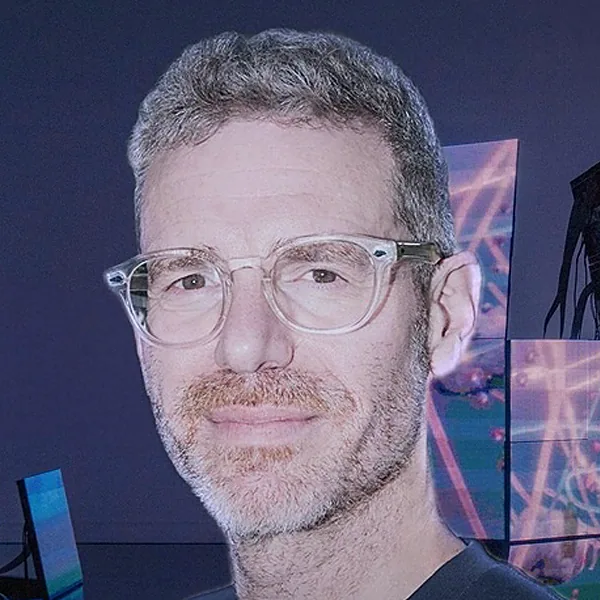
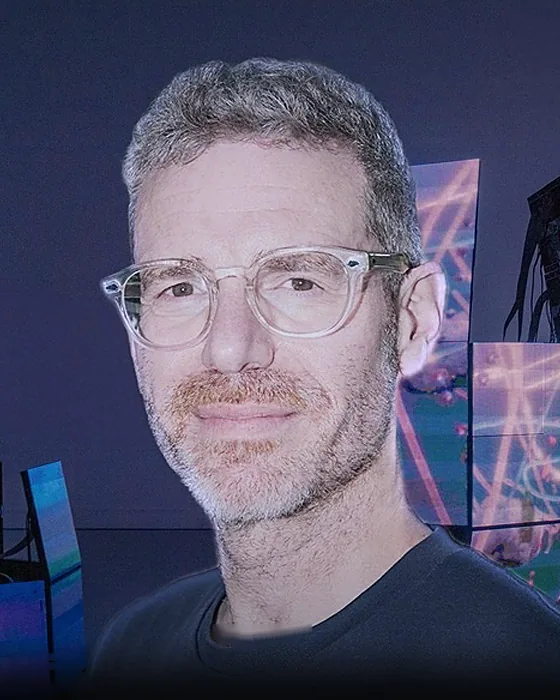
asmbly: taller 4:5 lineup cards, zoomed-out centred portraits
Back to a 4:5 image with every headshot recropped to one framing: crown
at 10% from the top, chin at 72%, head centred. Sophie, Andrew and
Wilfred get a little extra room because their tilted heads read larger.

The cover-based portraits (Sehun, Wilfred, Robleh, Amir, Geoffrey) need
more photo below the chin than the clean area holds, so the cover's
label and name type there is inpainted away and the last 10% fades
softly into the card.

Claude-Session: https://claude.ai/code/session_015vvedEEUJEY2Xconp5SVWz

diff --git a/public/asmbly/index.html b/public/asmbly/index.html
@@ -357,7 +357,7 @@
   /* Lineup TBA */
   .lineup { display: grid; grid-template-columns: repeat(4, 1fr); gap: 1px; background: var(--line); border: 1px solid var(--line); }
   .card { background: var(--bg); position: relative; overflow: hidden; }
-  .card__img { aspect-ratio: 1 / 1; position: relative; overflow: hidden; background: #0a0a0a; }
+  .card__img { aspect-ratio: 4 / 5; position: relative; overflow: hidden; background: #0a0a0a; }
   .card__img img { width: 100%; height: 100%; object-fit: cover; filter: grayscale(1) contrast(1.2) brightness(.55) blur(6px); transform: scale(1.12); transition: filter .7s ease, transform 1.2s ease; }
   .card:hover .card__img img { filter: grayscale(0) contrast(1.1) brightness(.85) blur(0); transform: scale(1.02); }
   .card__img::after { content: ""; position: absolute; inset: 0; background: repeating-linear-gradient(0deg, rgba(0,0,0,.4) 0 2px, transparent 2px 4px); mix-blend-mode: multiply; }
@@ -395,10 +395,10 @@
   .lineup-note { display: flex; justify-content: space-between; align-items: center; gap: 20px; flex-wrap: wrap; margin-top: 28px; }
   @media (max-width: 1000px) { .lineup { grid-template-columns: repeat(2, 1fr); } }
   @media (min-width: 1001px) and (max-width: 1240px) { .card__bio { padding: 16px 16px; gap: 8px; } .card__bio p { font-size: 13px; line-height: 1.38; } }
-  /* Narrow screens: the square portrait is too short for a bio, so the open bio covers the whole card (photo + name) */
+  /* Narrow screens: the portrait is too short for a bio, so the open bio covers the whole card (photo + name) */
   @media (max-width: 760px) {
     .card__img { position: static; }
-    .card__img::after, .card--revealed .card__img::before { inset: 0 0 auto 0; aspect-ratio: 1 / 1; }
+    .card__img::after, .card--revealed .card__img::before { inset: 0 0 auto 0; aspect-ratio: 4 / 5; }
     .card__bio { background: linear-gradient(to top, rgba(5,5,5,.97) 0%, rgba(5,5,5,.94) 50%, rgba(5,5,5,.4) 72%, rgba(5,5,5,0) 88%); }
     .card__body > * { transition: opacity .3s ease; }
     .card--revealed:is(.is-active, :has(:focus-visible)) .card__body > * { opacity: 0; }
@@ -881,18 +881,18 @@ document.addEventListener('click', (e) => {
       <span class="eyebrow">Decrypting soon</span>
     </div>
     <div class="lineup">
-      <article class="card card--revealed"><div class="card__img"><img decoding="async" src="/asmbly/img/sophie-hospes-s.webp?v=4" alt="Sophie Hospes" loading="lazy" /><div class="card__bio" aria-hidden="true"><span class="mono">About</span><p>Creative director based in Malmö. Through Studio Sophie Hospes and as Creative Director at New Limit Labs, she builds brand worlds across campaigns, product design and AI-powered creative systems.</p></div></div><div class="card__body"><div class="card__name">Sophie Hospes</div><div class="card__role mono">Speaker · The future of creative work</div><a class="card__ig mono" href="https://www.instagram.com/studiosophiehospes/" target="_blank" rel="noopener" aria-label="Sophie Hospes on Instagram">@studiosophiehospes ↗</a></div></article>
-      <article class="card card--revealed"><div class="card__img"><img decoding="async" src="/asmbly/img/sehun-choi-s.webp?v=4" alt="Sehun Choi" loading="lazy" /><div class="card__bio" aria-hidden="true"><span class="mono">About</span><p>Seoul-based artist working with generative AI across image, film and large-scale installation, with work for brands including OpenAI, Samsung and LG Electronics.</p></div></div><div class="card__body"><div class="card__name">Sehun Choi</div><div class="card__role mono">Speaker · Artist talk</div><a class="card__ig mono" href="https://www.instagram.com/se.hunchoi/" target="_blank" rel="noopener" aria-label="Sehun Choi: @se.hunchoi">@se.hunchoi ↗</a></div></article>
-      <article class="card card--revealed"><div class="card__img"><img decoding="async" src="/asmbly/img/wilfred-lee-s.webp?v=4" alt="Wilfred Lee" loading="lazy" /><div class="card__bio" aria-hidden="true"><span class="mono">About</span><p>Toronto AI filmmaker, worldbuilder and educator. Founder of Artist's Journey and GenTO, he brings storytelling, generative tools and community together into finished work.</p></div></div><div class="card__body"><div class="card__name">Wilfred Lee</div><div class="card__role mono">Panelist · The future of entertainment</div><a class="card__ig mono" href="https://www.instagram.com/theartistsjourney/" target="_blank" rel="noopener" aria-label="Wilfred Lee on Instagram">@theartistsjourney ↗</a></div></article>
-      <article class="card card--revealed"><div class="card__img"><img decoding="async" src="/asmbly/img/andrew-macdonald-s.webp?v=4" alt="Andrew MacDonald" loading="lazy" /><div class="card__bio" aria-hidden="true"><span class="mono">About</span><p>Filmmaker and creative-innovation leader at Cream Productions. As executive creative producer at Dark Half, he leads AI-enabled production and VFX workflows for film and television.</p></div></div><div class="card__body"><div class="card__name">Andrew MacDonald</div><div class="card__role mono">Panelist · Dark Half</div><a class="card__ig mono" href="https://darkhalf.ai/" target="_blank" rel="noopener" aria-label="Andrew MacDonald: darkhalf.ai">darkhalf.ai ↗</a></div></article>
-      <article class="card card--revealed"><div class="card__img"><img decoding="async" src="/asmbly/img/robleh-jama-s.webp?v=4" alt="Robleh Jama" loading="lazy" /><div class="card__bio" aria-hidden="true"><span class="mono">About</span><p>Toronto product builder and founder of Tomorrow. A Shopify alum, he co-founded Boom, the camera app for video calls, and founded the app studio Tiny Hearts.</p></div></div><div class="card__body"><div class="card__name">Robleh Jama</div><div class="card__role mono">Panelist · The Builder's Playbook</div><a class="card__ig mono" href="https://x.com/robjama" target="_blank" rel="noopener" aria-label="Robleh Jama: @robjama">@robjama ↗</a></div></article>
-      <article class="card card--revealed"><div class="card__img"><img decoding="async" src="/asmbly/img/amir-mxt-s.webp?v=4" alt="Amir MXT" loading="lazy" /><div class="card__bio" aria-hidden="true"><span class="mono">About</span><p>Founder of Humblytics, the simple analytics and A/B testing platform for websites. A product builder focused on shipping fast with small teams and new tools.</p></div></div><div class="card__body"><div class="card__name">Amir MXT</div><div class="card__role mono">Panelist · The Builder's Playbook</div><a class="card__ig mono" href="https://x.com/amirmxt" target="_blank" rel="noopener" aria-label="Amir MXT: @amirmxt">@amirmxt ↗</a></div></article>
+      <article class="card card--revealed"><div class="card__img"><img decoding="async" src="/asmbly/img/sophie-hospes-s.webp?v=5" alt="Sophie Hospes" loading="lazy" /><div class="card__bio" aria-hidden="true"><span class="mono">About</span><p>Creative director based in Malmö. Through Studio Sophie Hospes and as Creative Director at New Limit Labs, she builds brand worlds across campaigns, product design and AI-powered creative systems.</p></div></div><div class="card__body"><div class="card__name">Sophie Hospes</div><div class="card__role mono">Speaker · The future of creative work</div><a class="card__ig mono" href="https://www.instagram.com/studiosophiehospes/" target="_blank" rel="noopener" aria-label="Sophie Hospes on Instagram">@studiosophiehospes ↗</a></div></article>
+      <article class="card card--revealed"><div class="card__img"><img decoding="async" src="/asmbly/img/sehun-choi-s.webp?v=5" alt="Sehun Choi" loading="lazy" /><div class="card__bio" aria-hidden="true"><span class="mono">About</span><p>Seoul-based artist working with generative AI across image, film and large-scale installation, with work for brands including OpenAI, Samsung and LG Electronics.</p></div></div><div class="card__body"><div class="card__name">Sehun Choi</div><div class="card__role mono">Speaker · Artist talk</div><a class="card__ig mono" href="https://www.instagram.com/se.hunchoi/" target="_blank" rel="noopener" aria-label="Sehun Choi: @se.hunchoi">@se.hunchoi ↗</a></div></article>
+      <article class="card card--revealed"><div class="card__img"><img decoding="async" src="/asmbly/img/wilfred-lee-s.webp?v=5" alt="Wilfred Lee" loading="lazy" /><div class="card__bio" aria-hidden="true"><span class="mono">About</span><p>Toronto AI filmmaker, worldbuilder and educator. Founder of Artist's Journey and GenTO, he brings storytelling, generative tools and community together into finished work.</p></div></div><div class="card__body"><div class="card__name">Wilfred Lee</div><div class="card__role mono">Panelist · The future of entertainment</div><a class="card__ig mono" href="https://www.instagram.com/theartistsjourney/" target="_blank" rel="noopener" aria-label="Wilfred Lee on Instagram">@theartistsjourney ↗</a></div></article>
+      <article class="card card--revealed"><div class="card__img"><img decoding="async" src="/asmbly/img/andrew-macdonald-s.webp?v=5" alt="Andrew MacDonald" loading="lazy" /><div class="card__bio" aria-hidden="true"><span class="mono">About</span><p>Filmmaker and creative-innovation leader at Cream Productions. As executive creative producer at Dark Half, he leads AI-enabled production and VFX workflows for film and television.</p></div></div><div class="card__body"><div class="card__name">Andrew MacDonald</div><div class="card__role mono">Panelist · Dark Half</div><a class="card__ig mono" href="https://darkhalf.ai/" target="_blank" rel="noopener" aria-label="Andrew MacDonald: darkhalf.ai">darkhalf.ai ↗</a></div></article>
+      <article class="card card--revealed"><div class="card__img"><img decoding="async" src="/asmbly/img/robleh-jama-s.webp?v=5" alt="Robleh Jama" loading="lazy" /><div class="card__bio" aria-hidden="true"><span class="mono">About</span><p>Toronto product builder and founder of Tomorrow. A Shopify alum, he co-founded Boom, the camera app for video calls, and founded the app studio Tiny Hearts.</p></div></div><div class="card__body"><div class="card__name">Robleh Jama</div><div class="card__role mono">Panelist · The Builder's Playbook</div><a class="card__ig mono" href="https://x.com/robjama" target="_blank" rel="noopener" aria-label="Robleh Jama: @robjama">@robjama ↗</a></div></article>
+      <article class="card card--revealed"><div class="card__img"><img decoding="async" src="/asmbly/img/amir-mxt-s.webp?v=5" alt="Amir MXT" loading="lazy" /><div class="card__bio" aria-hidden="true"><span class="mono">About</span><p>Founder of Humblytics, the simple analytics and A/B testing platform for websites. A product builder focused on shipping fast with small teams and new tools.</p></div></div><div class="card__body"><div class="card__name">Amir MXT</div><div class="card__role mono">Panelist · The Builder's Playbook</div><a class="card__ig mono" href="https://x.com/amirmxt" target="_blank" rel="noopener" aria-label="Amir MXT: @amirmxt">@amirmxt ↗</a></div></article>
       <article class="card card--revealed"><div class="card__img"><img decoding="async" src="/asmbly/img/ali-phi-s.webp" alt="Ali Phi" loading="lazy" /><div class="card__bio" aria-hidden="true"><span class="mono">About</span><p>Tehran-born, Toronto-based computer artist and creative technologist. His live audiovisual sets fuse generative visuals, sound and data, with performances at MUTEK Montréal.</p></div></div><div class="card__body"><div class="card__name">Ali Phi</div><div class="card__role mono">Closing AV performance</div><a class="card__ig mono" href="https://www.instagram.com/ali_phi/" target="_blank" rel="noopener" aria-label="Ali Phi on Instagram">@ali_phi ↗</a></div></article>
       <article class="card card--revealed"><div class="card__img"><img decoding="async" src="/asmbly/img/enna-kim-s.webp" alt="Enna Kim" loading="lazy" /><div class="card__bio" aria-hidden="true"><span class="mono">About</span><p>Korean-Canadian new media artist and VJ working with projection mapping, murals, interactive installation and live performance, from the AGO to MUTEK and Venus Fest.</p></div></div><div class="card__body"><div class="card__name">Enna Kim</div><div class="card__role mono">Exhibiting artist</div><a class="card__ig mono" href="https://www.instagram.com/fongkikid/" target="_blank" rel="noopener" aria-label="Enna Kim on Instagram">@fongkikid ↗</a></div></article>
-      <article class="card card--revealed"><div class="card__img"><img decoding="async" src="/asmbly/img/pursuit-grooves-s.webp?v=4" alt="Pursuit Grooves" loading="lazy" /><div class="card__bio" aria-hidden="true"><span class="mono">About</span><p>Toronto producer, vocalist and visual artist Vanese Smith. 16+ albums and EPs on labels like Tectonic and Deepblak, MUTEK stages, and a 2025 Johanna Metcalf Prize finalist.</p></div></div><div class="card__body"><div class="card__name">Pursuit Grooves</div><div class="card__role mono">Opening performance</div><a class="card__ig mono" href="https://www.instagram.com/pursuitgrooves/" target="_blank" rel="noopener" aria-label="Pursuit Grooves: @pursuitgrooves">@pursuitgrooves ↗</a></div></article>
+      <article class="card card--revealed"><div class="card__img"><img decoding="async" src="/asmbly/img/pursuit-grooves-s.webp?v=5" alt="Pursuit Grooves" loading="lazy" /><div class="card__bio" aria-hidden="true"><span class="mono">About</span><p>Toronto producer, vocalist and visual artist Vanese Smith. 16+ albums and EPs on labels like Tectonic and Deepblak, MUTEK stages, and a 2025 Johanna Metcalf Prize finalist.</p></div></div><div class="card__body"><div class="card__name">Pursuit Grooves</div><div class="card__role mono">Opening performance</div><a class="card__ig mono" href="https://www.instagram.com/pursuitgrooves/" target="_blank" rel="noopener" aria-label="Pursuit Grooves: @pursuitgrooves">@pursuitgrooves ↗</a></div></article>
       <article class="card card--revealed"><div class="card__img"><img decoding="async" src="/asmbly/img/pfd-s.webp" alt="Pray First Diva" loading="lazy" /><div class="card__bio" aria-hidden="true"><span class="mono">About</span><p>Toronto digital artist working across visuals, technology and interaction, shown at Intel's Encore AI and InterAccess' flashDRIVE. At ASMBLY: a new interactive sculptural installation.</p></div></div><div class="card__body"><div class="card__name">Pray First Diva</div><div class="card__role mono">Exhibiting artist</div><a class="card__ig mono" href="https://www.instagram.com/prayfirstdiva/" target="_blank" rel="noopener" aria-label="Pray First Diva on Instagram">@prayfirstdiva ↗</a></div></article>
-      <article class="card card--revealed"><div class="card__img"><img decoding="async" src="/asmbly/img/alex-mcleod-s.webp?v=4" alt="Alex McLeod" loading="lazy" /><div class="card__bio" aria-hidden="true"><span class="mono">About</span><p>Toronto artist building digital worlds and playable spaces. At ASMBLY he brings Miros Mirror, a playable installation you can step up to and try for yourself.</p></div></div><div class="card__body"><div class="card__name">Alex McLeod</div><div class="card__role mono">Exhibiting artist</div><a class="card__ig mono" href="https://www.instagram.com/alex_mcleod_/" target="_blank" rel="noopener" aria-label="Alex McLeod on Instagram">@alex_mcleod_ ↗</a></div></article>
-      <article class="card card--revealed"><div class="card__img"><img decoding="async" src="/asmbly/img/geoffrey-pugen-s.webp?v=4" alt="Geoffrey Pugen" loading="lazy" /><div class="card__bio" aria-hidden="true"><span class="mono">About</span><p>Toronto video artist whose screen sculptures fold LED screens into architectural forms. A K.M. Hunter Award recipient with work in the BMO and TD collections.</p></div></div><div class="card__body"><div class="card__name">Geoffrey Pugen</div><div class="card__role mono">Exhibiting artist</div><a class="card__ig mono" href="https://www.instagram.com/geoffreypugen/" target="_blank" rel="noopener" aria-label="Geoffrey Pugen on Instagram">@geoffreypugen ↗</a></div></article>
+      <article class="card card--revealed"><div class="card__img"><img decoding="async" src="/asmbly/img/alex-mcleod-s.webp?v=5" alt="Alex McLeod" loading="lazy" /><div class="card__bio" aria-hidden="true"><span class="mono">About</span><p>Toronto artist building digital worlds and playable spaces. At ASMBLY he brings Miros Mirror, a playable installation you can step up to and try for yourself.</p></div></div><div class="card__body"><div class="card__name">Alex McLeod</div><div class="card__role mono">Exhibiting artist</div><a class="card__ig mono" href="https://www.instagram.com/alex_mcleod_/" target="_blank" rel="noopener" aria-label="Alex McLeod on Instagram">@alex_mcleod_ ↗</a></div></article>
+      <article class="card card--revealed"><div class="card__img"><img decoding="async" src="/asmbly/img/geoffrey-pugen-s.webp?v=5" alt="Geoffrey Pugen" loading="lazy" /><div class="card__bio" aria-hidden="true"><span class="mono">About</span><p>Toronto video artist whose screen sculptures fold LED screens into architectural forms. A K.M. Hunter Award recipient with work in the BMO and TD collections.</p></div></div><div class="card__body"><div class="card__name">Geoffrey Pugen</div><div class="card__role mono">Exhibiting artist</div><a class="card__ig mono" href="https://www.instagram.com/geoffreypugen/" target="_blank" rel="noopener" aria-label="Geoffrey Pugen on Instagram">@geoffreypugen ↗</a></div></article>
       <article class="card card--revealed"><div class="card__img"><img decoding="async" src="/asmbly/img/robbot-s.webp" alt="ROBBOT" loading="lazy" /><div class="card__bio" aria-hidden="true"><span class="mono">About</span><p>Toronto artist Robert Rigo, making interactive installations and live visuals. At ASMBLY, ROBBOT brings an interactive artwork to the exhibition floor.</p></div></div><div class="card__body"><div class="card__name">ROBBOT</div><div class="card__role mono">Interactive installation</div><a class="card__ig mono" href="https://www.instagram.com/robbot.5000/" target="_blank" rel="noopener" aria-label="ROBBOT: @robbot.5000">@robbot.5000 ↗</a></div></article>
       <article class="card"><div class="card__img"><img decoding="async" src="/asmbly/img/dr-curtain-s.webp" alt="" loading="lazy" /><span class="card__q">?</span></div><div class="card__body"><div class="card__name" data-scramble="PANELIST">PANELIST</div><div class="card__role mono">The future of entertainment</div></div></article>
       <article class="card"><div class="card__img"><img decoding="async" src="/asmbly/img/art-flower-s.webp" alt="" loading="lazy" /><span class="card__q">?</span></div><div class="card__body"><div class="card__name" data-scramble="PANELIST">PANELIST</div><div class="card__role mono">The future of entertainment</div></div></article>
